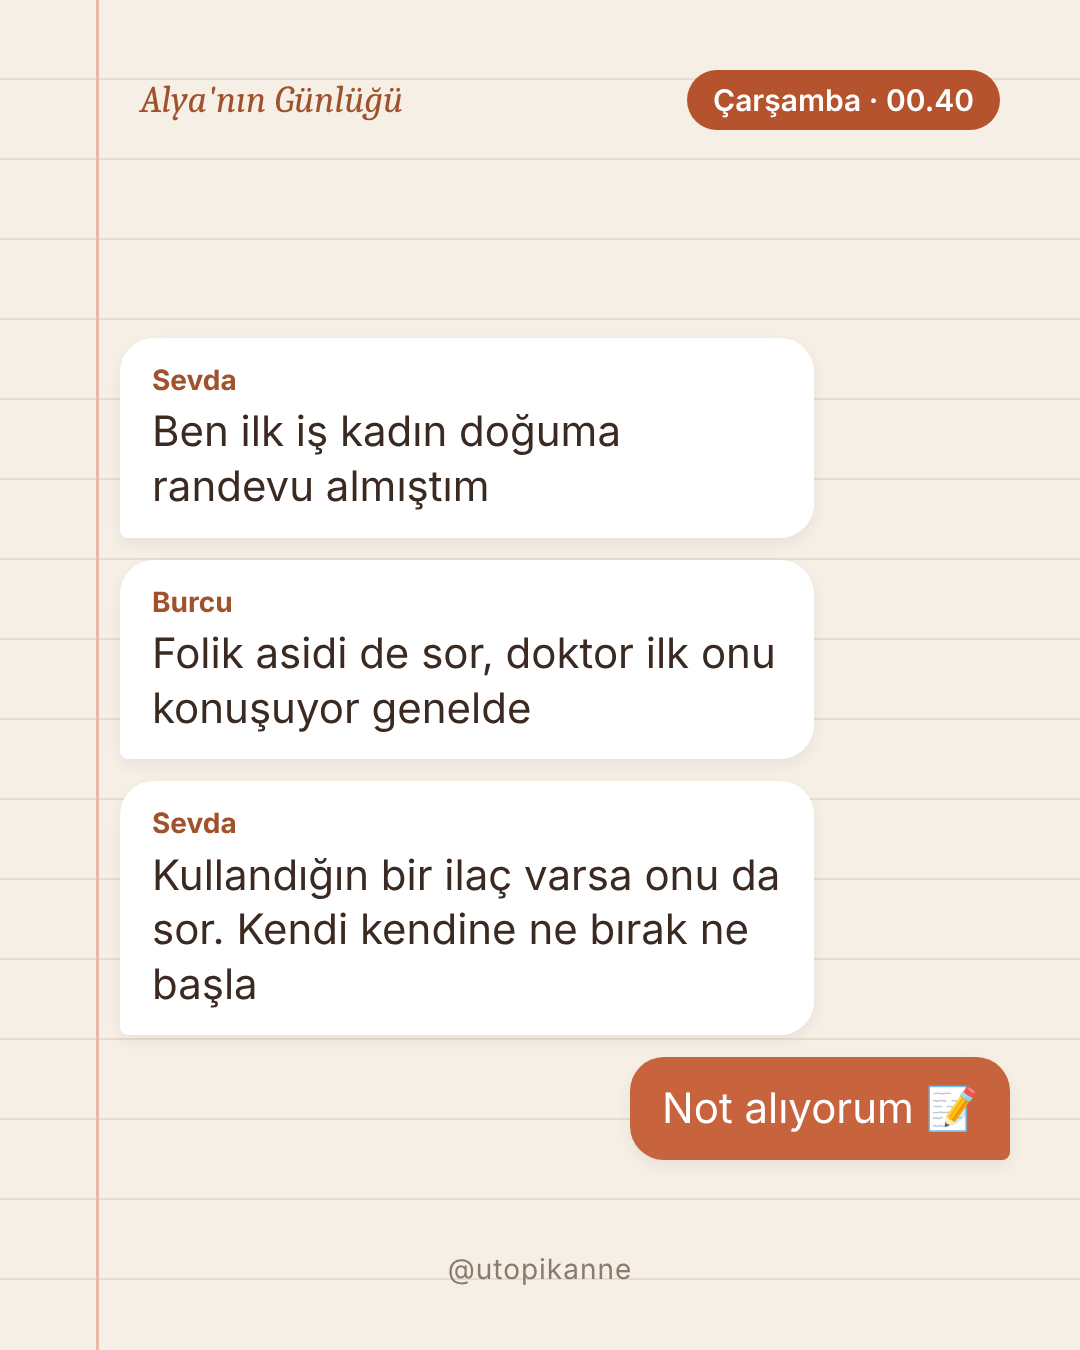
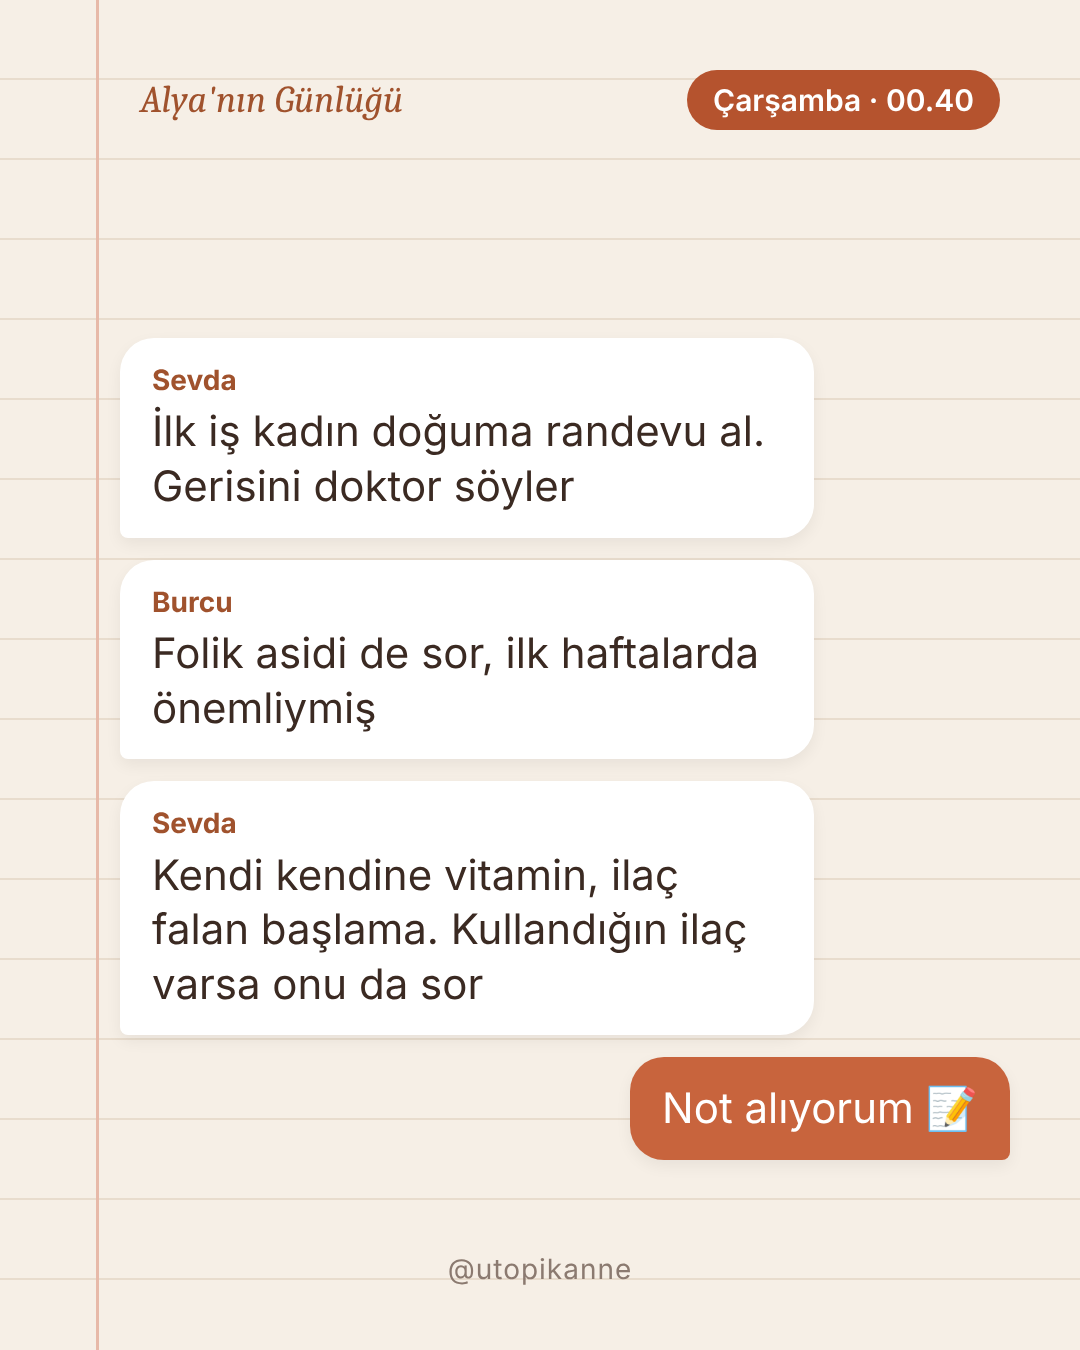
utopikanne: Alya araştırma notları + B2 düzeltme
Claude-Session: https://claude.ai/code/session_01QGX4XsF2fmNtuvzmoWMg9N

diff --git a/hesaplar/utopikanne/alya_arastirma.md b/hesaplar/utopikanne/alya_arastirma.md
@@ -1,0 +1,18 @@
+# Alya'nın Günlüğü: araştırma notları (27 Kasım)
+Kaynaklar: T.C. Sağlık Bakanlığı Doğum Öncesi Bakım Yönetim Rehberi (Uludağ Ü. Aile Hek. özeti), Acıbadem gebelik takibi, doktorsitesi "gebelik ilk muayenesi", NHS. Kadınlar Kulübü sayfaları bu ortamdan açılamadı; yalnız konu başlıkları görüldü ("6+1 boş kese", "kese var kalp atışı yok", "1 hafta sonra gel" gibi), yani ortak kaygı: ilk ultrasonda kalp atışı görülmeyip 1-2 hafta sonraya kontrol verilmesi.
+
+## İLK MUAYENE (B3, ~5-6. hafta)
+- Doktor seçimi: tavsiye sorma, yorumlara bakma, "rahat soru sorabileceğim biri mi?" (forum klasiği).
+- Öykü: son adet tarihi, adet düzeni, kullanılan ilaçlar, kronik hastalık, ailede kalıtsal hastalık/akraba evliliği, önceki gebelikler, sigara/alkol, aşılar.
+- Muayene: tansiyon, nabız, boy-kilo (sayı yazılmaz).
+- Ultrason (erken haftada çoğu zaman vajinal): gebelik kesesi RAHİM İÇİNDE mi (dış gebelik değil mi), yumurtalıklar/rahim (myom, kist). Çok erken gidilirse yalnız kese görülür, embriyo/kalp atışı henüz görülmeyebilir → "1-2 hafta sonra tekrar gel" (gerçek, çok yaşanan kaygı).
+- Tahliller: tam kan sayımı, kan grubu ve Rh (anne Rh-, baba Rh+ ise indirekt Coombs), tam idrar tahlili, hepatit B, TSH (tiroid), sifiliz, onayla HIV, gerekirse kan şekeri; bazı doktorlar toksoplazma/kızamıkçık da ister.
+- İlaç/vitamin ZAMANLAMASI (Bakanlık): folik asit ideal olarak gebelikten önce başlanır ve 12. haftaya kadar sürer; demir anemi yoksa 16. haftadan, D vitamini 12. haftadan; tetanoz aşısı 12. haftadan. DOZ YAZILMAZ, "doktorun söyler".
+- Bilgilendirme: tehlike işaretleri (vajinal kanama, şiddetli karın ağrısı, şiddetli kusma, ateş, şiddetli baş ağrısı, görme bulanıklığı, yüz-el şişliği, su gelmesi) → hemen doktor.
+
+## İKİNCİ KONTROL (B4, ~6-8. hafta)
+- Embriyo ve kalp atışı genelde 6-7. haftadan itibaren vajinal ultrasonda görülür; "kalp atışını duymak" duygusal doruk.
+- Terimler: 10. haftaya kadar "embriyo", sonra "fetüs". Kesenin içinde yumurta sarısı kesesi (yolk sac) görülür.
+- El Doppler'iyle kalp sesi 12. haftadan itibaren dinlenebilir (Bakanlık).
+- "İlk 3 ay eğilip kalkma, ağır kaldırma" Nermin/Sevim söyler. Dr. Aylin: günlük normal hareket genelde güvenlidir, ağır yük ve yorucu iş durumunu kendi doktorunla konuş (NHS: hamilelikte aktif kalmak önerilir; düşüklerin çoğu annenin yaptığı bir şeyden kaynaklanmaz). Korkutma yok.
+- 11-14. hafta: ikili tarama + ense kalınlığı; 10. haftadan itibaren NIPT (fetal DNA) seçeneği.
